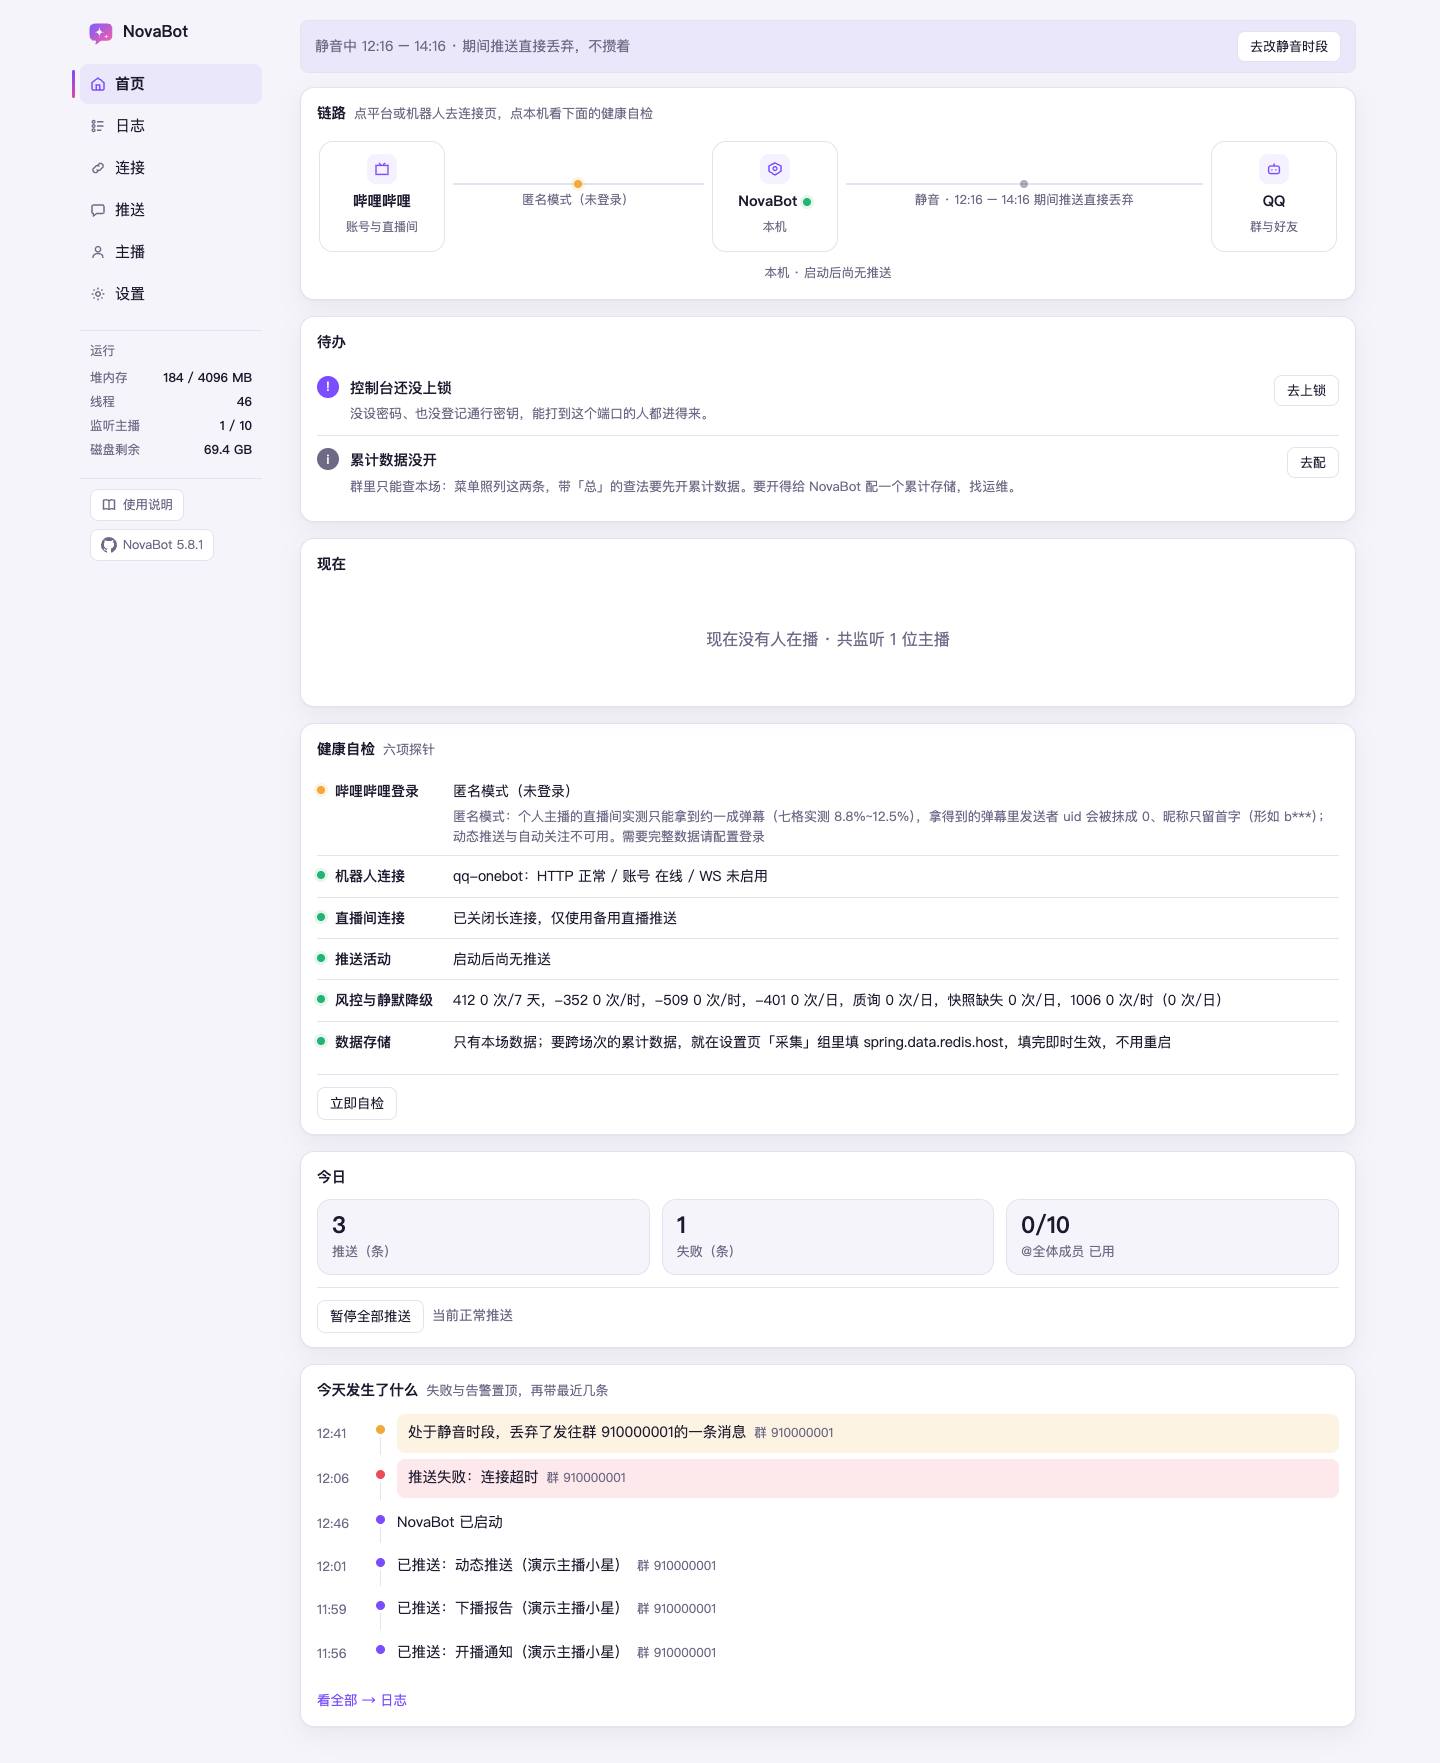
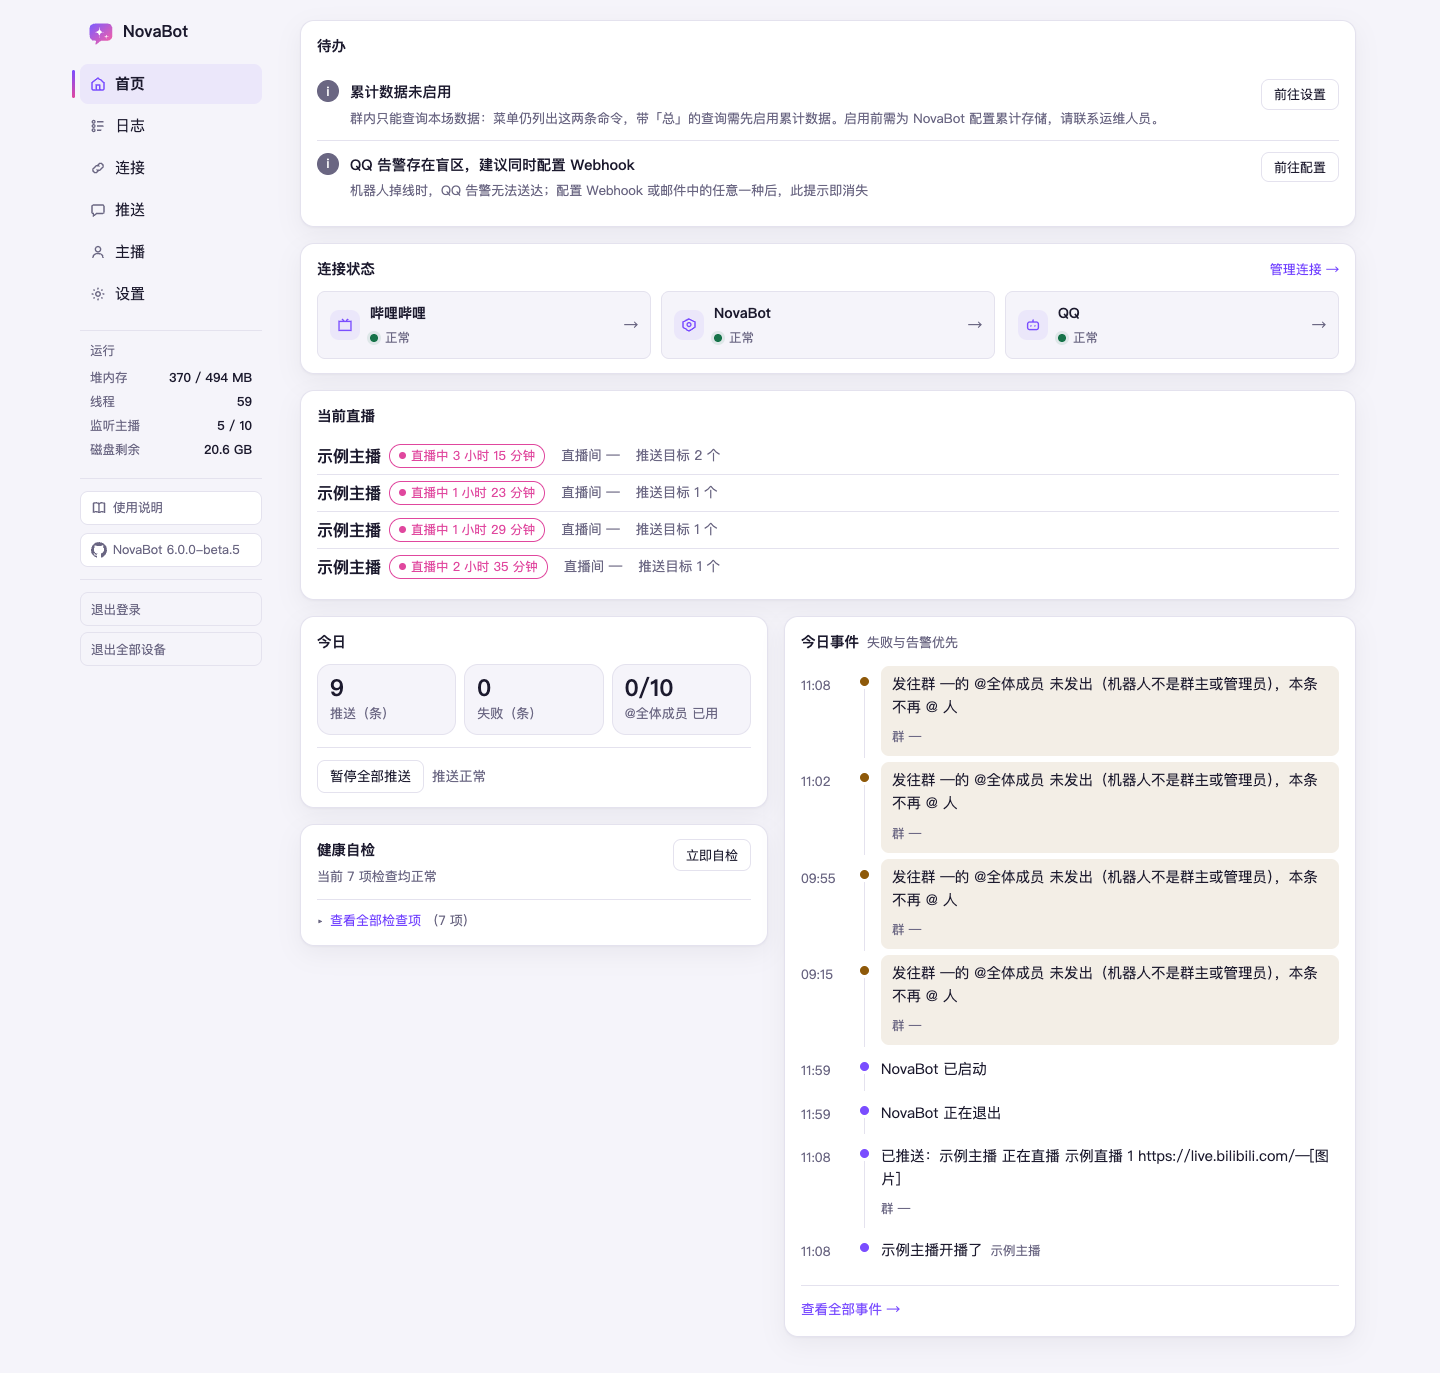
手册首页图换成现在的首页

diff --git a/manual/05-console-tour.md b/manual/05-console-tour.md
@@ -47,7 +47,7 @@
    「哔哩哔哩自动关注」会写明关注不了的主播及 B 站原因：他们的动态推不出来，直播推送不受影响。常见原因是主播把这个账号拉黑或移出了粉丝，或者改了隐私设置；NovaBot 每天会自动再试，能做的只有换一个能关注他的账号登录，或者请主播调整设置。推送名单里有登录账号自己时，自动关注会跳过他，健康栏也不会把他列为关注不了。
 7. **今日事件**——失败与告警置顶，再带最近几条；看全部去日志页
 
-![调整前的控制台首页整页，含左侧侧栏（示例数据）：链路、健康自检与「今日」三个数](images/01-home.png)
+![控制台首页整页，含左侧侧栏（示例数据）：待办、连接状态、当前直播，下面左列是「今日」三个数与健康自检，右列是今日事件](images/01-home.png)
 
 ## 版本与新版提示
 

diff --git a/manual/01-what-novabot-does.md b/manual/01-what-novabot-does.md
@@ -27,7 +27,7 @@ NovaBot 是一个哔哩哔哩直播与动态推送机器人。你告诉它要盯
 **省心。** 半夜不想被吵醒可以设静音时段；登录失效、连接中断这类异常能推到 QQ
 或手机通知（Bark 一类）；控制台首页随时能看它现在好不好，出了问题有健康自检和修复建议。
 
-![调整前的控制台首页整页（示例数据）：从上到下是静音提示条、链路、待办、健康自检与「今日」三个数](images/01-home.png)
+![控制台首页整页（示例数据）：从上到下是待办、连接状态、当前直播，再往下是「今日」三个数、健康自检与今日事件](images/01-home.png)
 
 ![下播报告图的开头一截（示例数据）：直播时长后带采集缺口，数据卡第一格是流水](images/01-stream-report-top.png)
 
